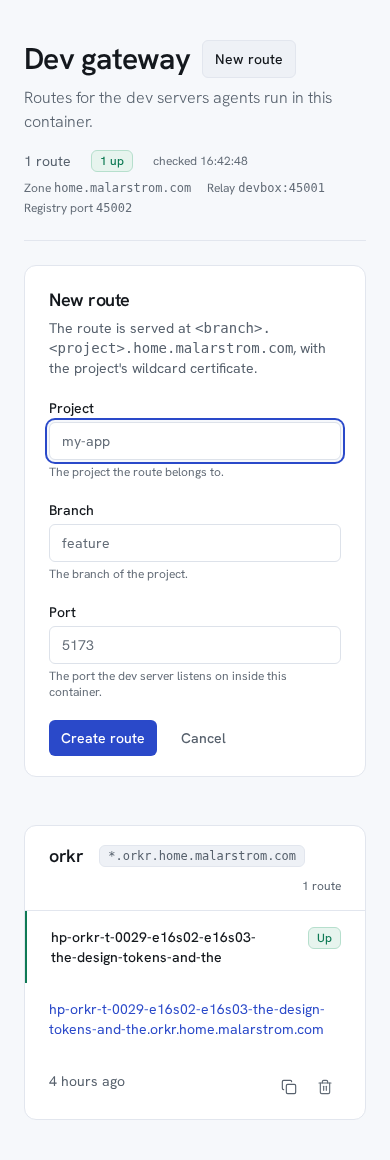
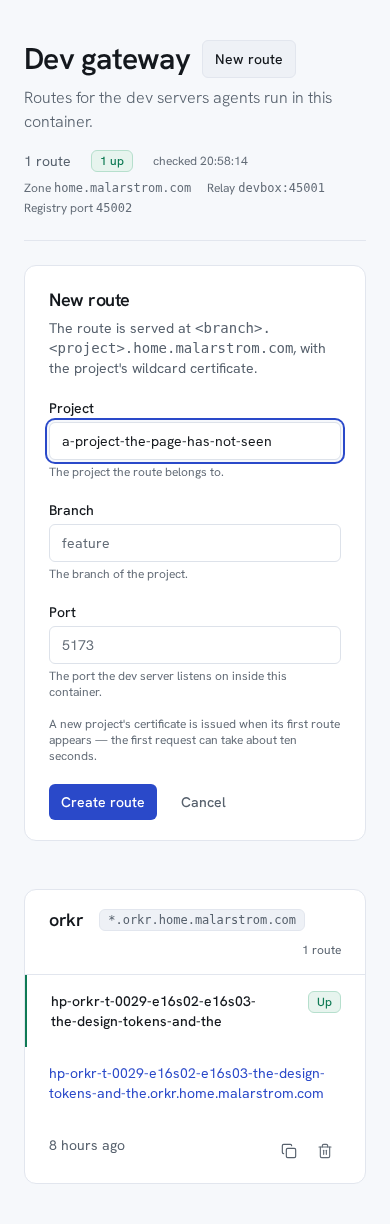
docs(index): capture the certificate line in the create panel

diff --git a/tools/capture-new-route.py b/tools/capture-new-route.py
@@ -25,6 +25,11 @@ with sync_playwright() as p:
     desktop.click("#new-route-toggle")
     desktop.wait_for_timeout(200)
     desktop.screenshot(path=str(OUT / "new-route-panel.png"))
+    # The certificate line appears once the project is one the page has not
+    # seen before.
+    desktop.fill("#new-route-project", "a-project-the-page-has-not-seen")
+    desktop.wait_for_timeout(150)
+    desktop.screenshot(path=str(OUT / "new-route-certificate.png"))
     desktop.close()
 
     phone = browser.new_page(viewport={"width": 390, "height": 844})
@@ -32,6 +37,8 @@ with sync_playwright() as p:
     phone.evaluate("document.fonts.ready")
     phone.click("#new-route-toggle")
     phone.wait_for_timeout(200)
+    phone.fill("#new-route-project", "a-project-the-page-has-not-seen")
+    phone.wait_for_timeout(150)
     phone.screenshot(path=str(OUT / "new-route-phone.png"), full_page=True)
     phone.close()
 
